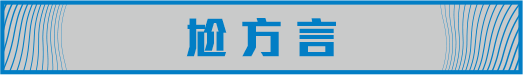
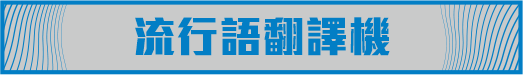
de

Changed region(s): [[0.2447, 0.2133, 0.7648, 0.7733]]

diff --git a/game.html b/game.html
@@ -5,11 +5,11 @@
   <meta name="viewport" content="width=device-width, initial-scale=1.0">
   <title>台灣啤酒 – 經典台灣囡仔</title>
   <meta property="fb:app_id" content="594956418126262" />
-  <meta name="description" content="快來測測你是哪一款經典台灣囡仔，各路方言等你來解鎖！">
+  <meta name="description" content="快來測測你是哪一款經典台灣囡仔，跨世代流行語等你來解鎖！">
   <meta name="keywords" content="台灣啤酒、台啤、經典、台味啤酒、台灣囡仔、囡仔、啤酒、啤酒推薦、twbeer、beer ">
   <meta property="og:title" content="台灣啤酒 – 經典台灣囡仔" />
-  <meta property="og:description" content="快來測測你是哪一款經典台灣囡仔，各路方言等你來解鎖！" />
-  <meta property="og:image" content="" />
+  <meta property="og:description" content="快來測測你是哪一款經典台灣囡仔，跨世代流行語等你來解鎖！" />
+  <meta property="og:image" content="img/fb_share.png" />
   <meta property="og:image:width" content="1200" />
   <meta property="og:image:height" content="630" />
   <link rel="icon" href="https://www.twbeer.com.tw/image/tileicon.png"> 
@@ -47,7 +47,7 @@
             <img src="img/pcNav02.png" alt="">
           </a>
           <a href="index.html#myDialect" class="menu-3">
-            <!-- 各路方言 -->
+            <!-- 跨世代流行語 -->
             <img src="img/pcNav03.png" alt="">
           </a>
           <a href="https://www.instagram.com/taiwan.beer/" target="_blank">
@@ -73,7 +73,7 @@
           <img src="img/nav02.png" alt="">
         </a></li>
         <li><a href="index.html#myDialect" class="menu-3">
-          <!-- 各路方言 -->
+          <!-- 跨世代流行語 -->
           <img src="img/nav03.png" alt="">
         </a></li>
       </ul>

diff --git a/index.html b/index.html
@@ -4,11 +4,11 @@
   <meta charset="UTF-8">
   <meta name="viewport" content="width=device-width, initial-scale=1.0">
   <title>台灣啤酒 – 經典台灣囡仔</title>
-  <meta name="description" content="快來測測你是哪一款經典台灣囡仔，各路方言等你來解鎖！">
+  <meta name="description" content="快來測測你是哪一款經典台灣囡仔，跨世代流行語等你來解鎖！">
   <meta name="keywords" content="台灣啤酒、台啤、經典、台味啤酒、台灣囡仔、囡仔、啤酒、啤酒推薦、twbeer、beer ">
   <meta property="og:title" content="台灣啤酒 – 經典台灣囡仔" />
-  <meta property="og:description" content="快來測測你是哪一款經典台灣囡仔，各路方言等你來解鎖！" />
-  <meta property="og:image" content="" />
+  <meta property="og:description" content="快來測測你是哪一款經典台灣囡仔，跨世代流行語等你來解鎖！" />
+  <meta property="og:image" content="img/fb_share.png" />
   <meta property="og:image:width" content="1200" />
   <meta property="og:image:height" content="630" />
   <link rel="icon" href="https://www.twbeer.com.tw/image/tileicon.png"> 
@@ -53,7 +53,7 @@
               <img src="img/pcNav02.png" alt="">
             </a>
             <a href="#myDialect" class="menu-3">
-              <!-- 各路方言 -->
+              <!-- 跨世代流行語 -->
               <img src="img/pcNav03.png" alt="">
             </a>
             <a href="https://www.instagram.com/taiwan.beer/" target="_blank">
@@ -79,7 +79,7 @@
             <img src="img/nav02.png" alt="">
           </a></li>
           <li><a href="#myDialect" class="menu-3">
-            <!-- 各路方言 -->
+            <!-- 跨世代流行語 -->
             <img src="img/nav03.png" alt="">
           </a></li>
         </ul>

diff --git a/age-confirm.html b/age-confirm.html
@@ -4,11 +4,11 @@
   <meta charset="UTF-8">
   <meta name="viewport" content="width=device-width, initial-scale=1.0">
   <title>台灣啤酒 – 經典台灣囡仔</title>
-  <meta name="description" content="快來測測你是哪一款經典台灣囡仔，各路方言等你來解鎖！">
+  <meta name="description" content="快來測測你是哪一款經典台灣囡仔，跨世代流行語等你來解鎖！">
   <meta name="keywords" content="台灣啤酒、台啤、經典、台味啤酒、台灣囡仔、囡仔、啤酒、啤酒推薦、twbeer、beer ">
   <meta property="og:title" content="台灣啤酒 – 經典台灣囡仔" />
-  <meta property="og:description" content="快來測測你是哪一款經典台灣囡仔，各路方言等你來解鎖！" />
-  <meta property="og:image" content="" />
+  <meta property="og:description" content="快來測測你是哪一款經典台灣囡仔，跨世代流行語等你來解鎖！" />
+  <meta property="og:image" content="img/fb_share.png" />
   <meta property="og:image:width" content="1200" />
   <meta property="og:image:height" content="630" />
   <link rel="icon" href="https://www.twbeer.com.tw/image/tileicon.png"> 

diff --git a/waiting.html b/waiting.html
@@ -4,11 +4,11 @@
   <meta charset="UTF-8">
   <meta name="viewport" content="width=device-width, initial-scale=1.0">
   <title>台灣啤酒 – 經典台灣囡仔</title>
-  <meta name="description" content="快來測測你是哪一款經典台灣囡仔，各路方言等你來解鎖！">
+  <meta name="description" content="快來測測你是哪一款經典台灣囡仔，跨世代流行語等你來解鎖！">
   <meta name="keywords" content="台灣啤酒、台啤、經典、台味啤酒、台灣囡仔、囡仔、啤酒、啤酒推薦、twbeer、beer ">
   <meta property="og:title" content="台灣啤酒 – 經典台灣囡仔" />
-  <meta property="og:description" content="快來測測你是哪一款經典台灣囡仔，各路方言等你來解鎖！" />
-  <meta property="og:image" content="" />
+  <meta property="og:description" content="快來測測你是哪一款經典台灣囡仔，跨世代流行語等你來解鎖！" />
+  <meta property="og:image" content="img/fb_share.png" />
   <meta property="og:image:width" content="1200" />
   <meta property="og:image:height" content="630" />
   <link rel="icon" href="https://www.twbeer.com.tw/image/tileicon.png"> 

diff --git a/css/style.css b/css/style.css
@@ -234,7 +234,7 @@ body{
     width: 220px;
 }
 .icon .menu-3{
-    width: 65px;
+    width: 136px;
 }
 .icon > a{
 	width: 30px;
@@ -1393,6 +1393,9 @@ footer{
     }
 }
 @media screen and (max-width: 1366px){
+    .navfive {
+        width: 46%;
+    }
     .icon > a{
         margin-right: 15px;
     }
@@ -1449,6 +1452,9 @@ footer{
     }
     .box .voc13{
         left: 27%;
+    }
+    .navfive {
+        width: 50%;
     }
 }
 @media screen and (max-width: 992px){
